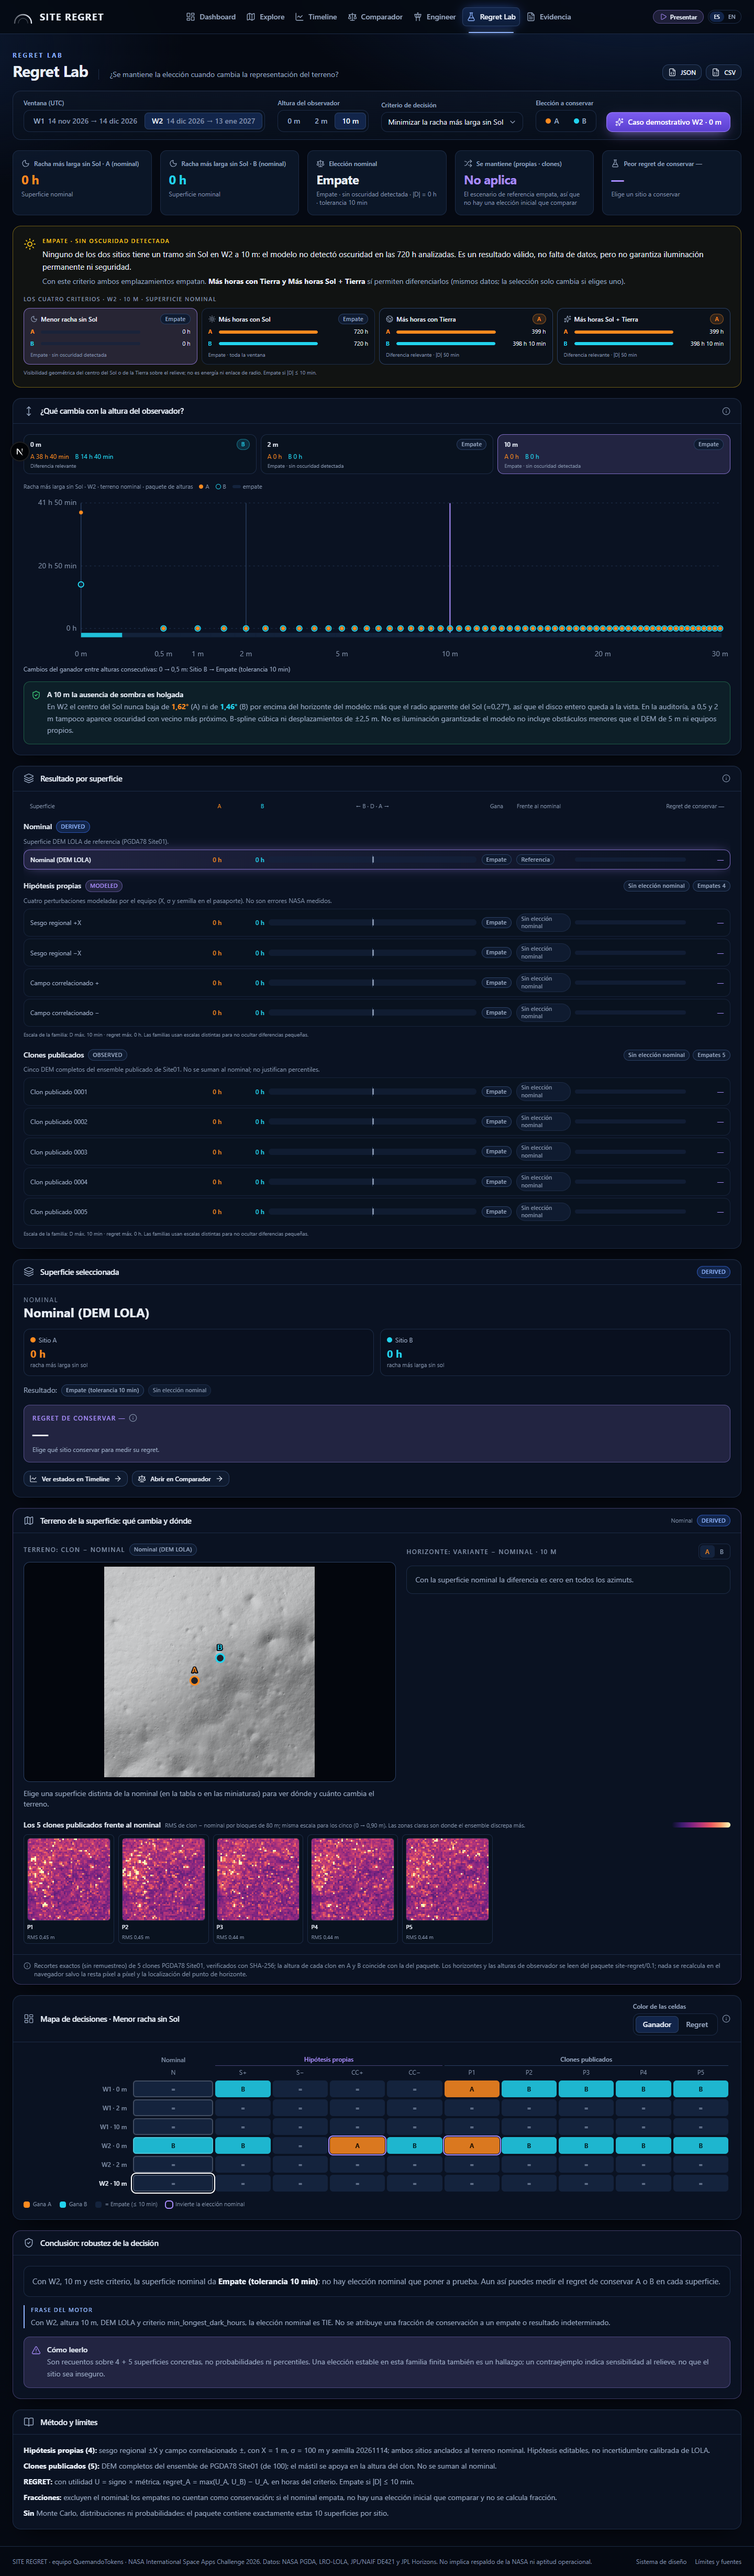
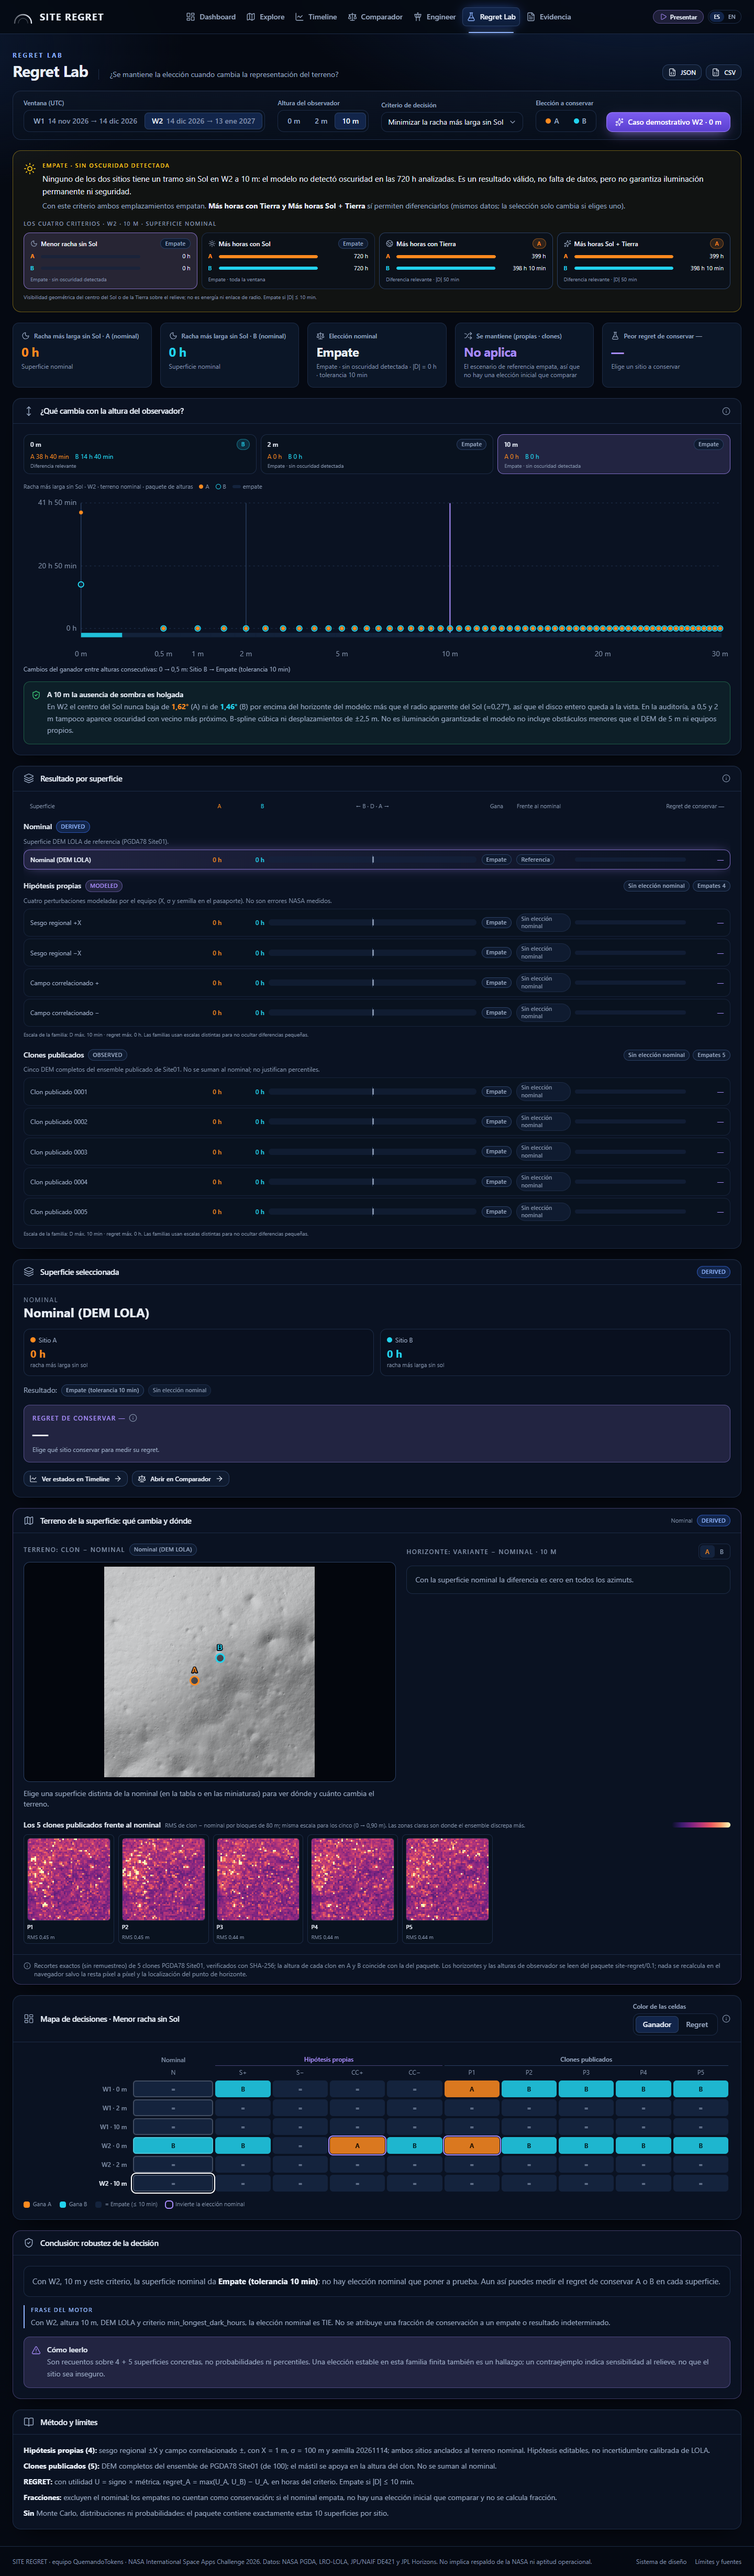
docs: PC-28 handoff, decision D28; audit hash normalised to LF; final screenshots
The audit records the script SHA-256 over LF-normalised bytes so the test holds
on Windows (CRLF checkout) and Linux alike. Regenerated audit is identical apart
from that hash and the timestamp.

Changed region(s): [[0.0312, 0.0622, 0.9062, 0.1556], [0.9375, 0.0933, 0.9688, 0.1244]]

diff --git a/web/tests/height-audit.test.ts b/web/tests/height-audit.test.ts
@@ -24,7 +24,8 @@ describe("auditoría de alturas: trazabilidad", () => {
     expect(audit.engine_sha256).toBe(engineSha);
     expect(HEIGHT_AUDIT.engine_sha256).toBe(engineSha);
     expect(HEIGHT_AUDIT.script_sha256).toBe(audit.script_sha256);
-    expect(audit.script_sha256).toBe(sha256(readFileSync(join(ROOT, "scripts", "engine", "height_audit.py"))));
+    // Finales de línea normalizados a LF (Git puede dar CRLF en Windows).
+    expect(audit.script_sha256).toBe(sha256(readFileSync(join(ROOT, "scripts", "engine", "height_audit.py"), "utf8").replace(/\r\n/g, "\n")));
   });
 
   it("el barrido de la auditoría reproduce el contrato a 0, 2 y 10 m (superficie nominal)", () => {

diff --git a/web/scripts/engine/height_audit.py b/web/scripts/engine/height_audit.py
@@ -221,7 +221,7 @@ def main():
     grids = {w['id']: P.sky_grid(w) for w in P.WINDOWS}
     out = dict(schema='site-regret-height-audit/1', nature='DIAGNOSTIC_AUDIT · no es un escenario del contrato site-regret/0.1',
                engine_sha256=hashlib.sha256((SOURCE / 'motor/pipeline.py').read_bytes()).hexdigest(),
-               script_sha256=hashlib.sha256(Path(__file__).read_bytes()).hexdigest(),
+               script_sha256=hashlib.sha256(Path(__file__).read_bytes().replace(b'\r\n', b'\n')).hexdigest(),  # LF: igual en Windows y Linux
                generated_at_utc=dt.datetime.now(dt.timezone.utc).isoformat(timespec='seconds'),
                config=dict(sweep_heights_m=SWEEP, sensitivity_heights_m=SENS_HEIGHTS, azimuth_step_deg=STEP,
                            radial_factor=FACTOR, near_field_m=NEAR_M, time_step_minutes=10, surface='nominal'),

diff --git a/docs/continuidad/HANDOFF.md b/docs/continuidad/HANDOFF.md
@@ -1,7 +1,27 @@
 # HANDOFF · SITE REGRET · Operación final de integración
 
-**Punto de control vigente:** PC-27 publicado en `c9749ca`. La sección 0.7 recoge la comprobación de entrega del 15-11-2026.
+**Punto de control vigente:** PC-28 en rama `fix/regret-lab-height-audit` (§0-nonies); producción = PC-27 + #27 (`f395794`). La sección 0.7 recoge la comprobación de entrega del 15-11-2026.
 Documento principal del relevo. Si contradice al código o a `git status`, mandan el código y Git. **El estado vigente es la sección 0; las secciones 1–10 son históricas (PC-13 a PC-21) y sus referencias a ramas, HEAD y «sin push/sin despliegue» están superadas.**
+
+## 0-nonies. PC-28 · Auditoría de alturas y Regret Lab — EN RAMA, PR abierta, sin fusionar (leer primero)
+
+**2026-11-15.** Rama `fix/regret-lab-height-audit` desde `origin/main` = `f395794` (= producción). Encargo: incidente de los ceros de oscuridad a 2 y 10 m en Regret Lab (W2) y salto 0 → 0,5 m. Sin merge ni despliegue: necesita revisión humana.
+
+**Dictamen científico** (`docs/SCIENCE_HEIGHT_AUDIT.md`): no hay error en el motor; los datos del contrato y del paquete de alturas **se conservan**. A 0 m la sombra W2 la produce microrrelieve a 25–31 m que asoma 0,03–0,13 m sobre la línea del Sol, menos que el error vertical del DEM (0,27–0,30 m): rachas inestables (A 33 h 50 min – 54 h 10 min, B 0 h – 26 h 10 min con ±2,5 m), aunque B < A en las 14 configuraciones. Desde 0,5 m ninguna configuración da sombra; margen solar mínimo a 2 m ≥ 0,90°. Geometría del motor = vectores cartesianos independientes (< 5·10⁻⁹°).
+
+| Módulo | Problema | Solución | Archivos | Prueba |
+|---|---|---|---|---|
+| Ciencia | Ceros a 2/10 m y salto 0→0,5 m sin explicar | Auditoría reproducible con el motor importado sin modificar | `web/scripts/engine/height_audit.py`, `web/data/derived/height-audit/v1/{audit,summary}.json`, `docs/SCIENCE_HEIGHT_AUDIT.md` | `tests/height-audit.test.ts` (14) |
+| Regret Lab | Empate a 0 h parecía pantalla vacía | Veredicto con tipo de resultado (empate sin oscuridad / toda la ventana / diferencia / no determinable) y los 4 criterios con valores; indica cuál sí diferencia (la selección solo cambia si el usuario pulsa) | `src/components/regret/RegretVerdict.tsx`, `src/lib/science/regretSummary.ts` | `e2e/regret-lab-pc28.spec.ts` |
+| Regret Lab | 2 y 10 m sin historia útil | «¿Qué cambia con la altura?»: alturas del contrato + paquete 0–30 m (puntos, sin interpolar) + franja de ganador + avisos de la auditoría | `src/components/regret/HeightEvolution.tsx`, `src/lib/science/heightAudit.ts` | ídem |
+| Demo guiada | Explicaba W2 · 0 m con controles en 2/10 m | Se pausa si la selección no coincide con el paso; «Volver al caso» o «Cerrar» | `RegretLabView.tsx` | ídem + `app.spec.ts` |
+| Otras vistas | Revisadas con W2 · 2 m · racha sin Sol (Dashboard, Explore, Timeline, Comparador, Engineer, Evidencia, Historia) | Sin cambios: cifras coherentes (720 h Sol, 0 h racha, Tierra A 398 h 40 min / B 398 h); el bloque del Dashboard rotula su caso fijo «W2 · 0 m» | — | lectura en navegador |
+
+**Capturas** (antes = producción, después = rama; 1440×900 y 390×844): `web/docs/capturas/pc28/{antes,despues}/` con `log.json`; script `web/scripts/qa/capture-pc28.mjs`.
+
+**Verificación:** `npm run verify`: tipos y lint limpios · Vitest **170/170** (18 archivos; +14 `height-audit.test.ts`) · build PASS · Playwright **123 PASS, 4 FAIL, 1 omitida** (12,7 min). Los 4 fallos fueron esperas agotadas de carga de datos (`waitForData` / clic) mientras la auditoría Python se regeneraba en paralelo con la CPU saturada (`mission-control` ×2, `regret-lab-pc28` ×2). Repetidas sin carga: `mission-control`, `regret-lab-pc28`, `app`, `jurado-pc25` ×2 → **78/78 PASS**. No hubo una pasada completa con salida 0.
+
+**Pendiente:** revisión humana; el Comparador podría reutilizar el aviso «otro criterio sí diferencia» (fuera de alcance); DEM de mayor resolución para cerrar el caso de 0 m.
 
 ## 0-octies. Fusión de la PR #25 (PC-27) — PUBLICADA (leer primero)
 

diff --git a/web/DECISIONS.md b/web/DECISIONS.md
@@ -29,3 +29,4 @@
 | D25 | 2026-11-14 | Engineer lee un paquete ADICIONAL de alturas (`data/derived/engineer-heights/v1`: 0–30 m cada 0,5 m, solo terreno nominal, 244 escenarios) generado con el motor original importado sin modificar (`scripts/engine/engineer_heights.py`). No amplía `HEIGHTS_M` ni el contrato `site-regret/0.1`; con otras superficies solo existen 0/2/10 m y el resto es vista previa sin cálculo. Sustituye a la parte de D11 que decía «selector discreto». | El deslizador continuo necesitaba datos reales en cada posición: nada se interpola. Auditado en PC-23 (igualdad exacta con el contrato en 0/2/10 m). |
 | D26 | 2026-11-14 | Producción se despliega sola desde `main` (integración Vercel–GitHub). `main` solo cambia por PR revisada; el trabajo se valida en rama y en su vista previa. Corrige D14 («desde la CLI») y D16 («sin push»). | Un push directo a `main` publica sin pruebas: la rama no está protegida y no hay CI en `main`. |
 | D27 | 2026-11-14 | La demo de `/historia/` oculta las cifras hasta que se elige sitio y termina en el regret del motor explicado en lenguaje llano; «observador a 2 m» queda como extra. El visor 3D acepta el evento de diagnóstico `site-regret:render-now` para poder leer el lienzo en pruebas. | Tres pasos comprensibles (elegir, descubrir, cambiar el terreno); el visor renderiza bajo demanda y su búfer no es legible fuera del fotograma. |
+| D28 | 2026-11-15 | Se CONSERVAN los ceros de racha sin Sol a 2 y 10 m y el resultado de 0 m; no se corrige el motor. Se añade una auditoría diagnóstica versionada (`scripts/engine/height_audit.py` → `data/derived/height-audit/v1/`, importa el motor sin modificarlo) y Regret Lab la cita: 0 m frágil (microrrelieve < error vertical del DEM), 2/10 m con margen solar ≥ 0,90°. La demo guiada se pausa si la selección deja de coincidir con su caso. | Sin error demostrable (geometría cartesiana independiente < 5·10⁻⁹°; 14 configuraciones de muestreo); ver `docs/SCIENCE_HEIGHT_AUDIT.md`. Un empate válido a 0 h no es ausencia de datos ni `UNKNOWN`. |

diff --git a/docs/continuidad/HISTORIAL.md b/docs/continuidad/HISTORIAL.md
@@ -37,3 +37,4 @@
 | PC-26 | 2026-11-14 | Asier · Claude Code | Timeline en dos filas (Geometría │ Cielo local ampliado │ Métricas; Elevación │ Sitio │ Salidas y puestas + Instante) en `feat/timeline-cielo-local`; Cielo local con `HorizonChart` en modo relleno. verify: Vitest 156/156, Playwright 112 PASS + 2 fallos de tiempo en Engineer (20/20 al repetir), 1 omitida. Sin push | HANDOFF §0-sexies |
 | PC-27 | 2026-11-15 | Hugo · Claude Code | Cuatro hallazgos del jurado en `fix/jurado-idioma-portada-demo` (desde `ddbbf6c`): `?lang=` se guarda como preferencia; portada con el botón visible a 375×667 y 720×450; tarjetas A/B con flechas y resultado en región viva propia; frase «ambos sitios superan el límite de 24 h» y botón «Prueba otro mapa del terreno». verify: Vitest 156/156, Playwright 120 PASS + 2 fallos de tiempo en Engineer (20/20 al repetir), 1 omitida. Sin push | HANDOFF §0-septies |
 | Fusión #25 | 2026-11-15 | Hugo · Claude Code (a petición de Hugo) | PR #25 (PC-27) fusionada en `main` (`c9749ca`). Vercel: success. Producción comprobada en navegador con `?lang=en`: botón visible a 375×667, flechas A/B, 16 h 30 min y aviso de 24 h, Evidencia en inglés tras recargar | `c9749ca` |
+| PC-28 | 2026-11-15 | Hugo · Claude Code | Auditoría de alturas (0→0,5 m): sin error de motor, datos conservados; 0 m frágil por microrrelieve < error del DEM, 2/10 m con margen ≥ 0,90°. Regret Lab: veredicto por tipo de resultado, 4 criterios, evolución con la altura, demo que se pausa. Rama `fix/regret-lab-height-audit`, PR sin fusionar | HANDOFF §0-nonies · `docs/SCIENCE_HEIGHT_AUDIT.md` |
